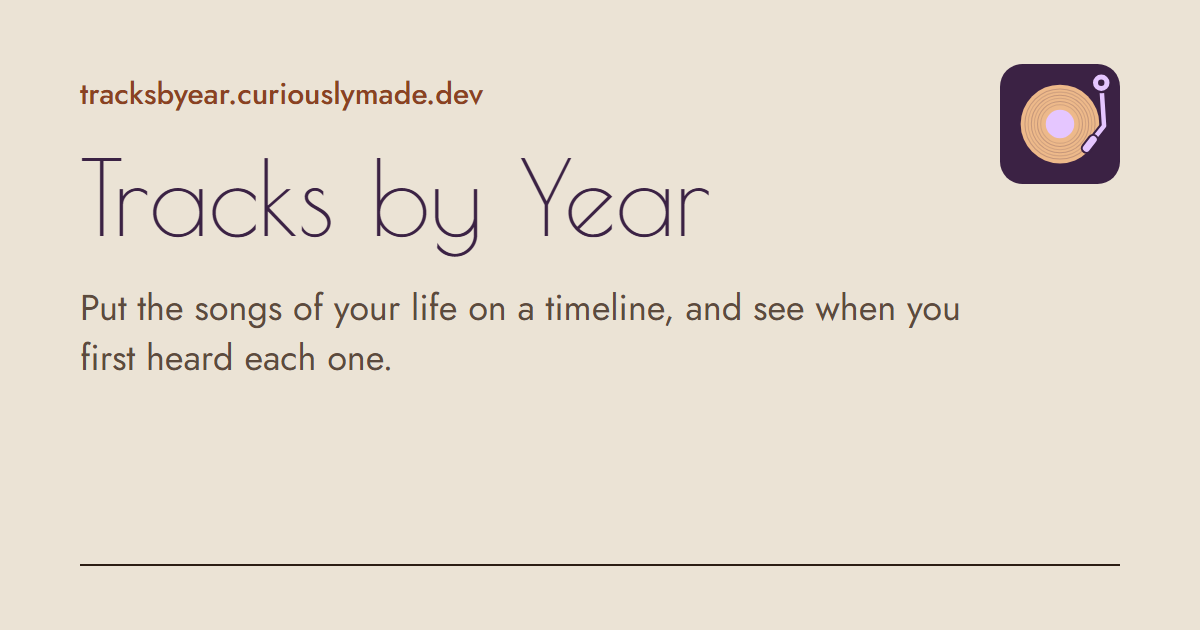
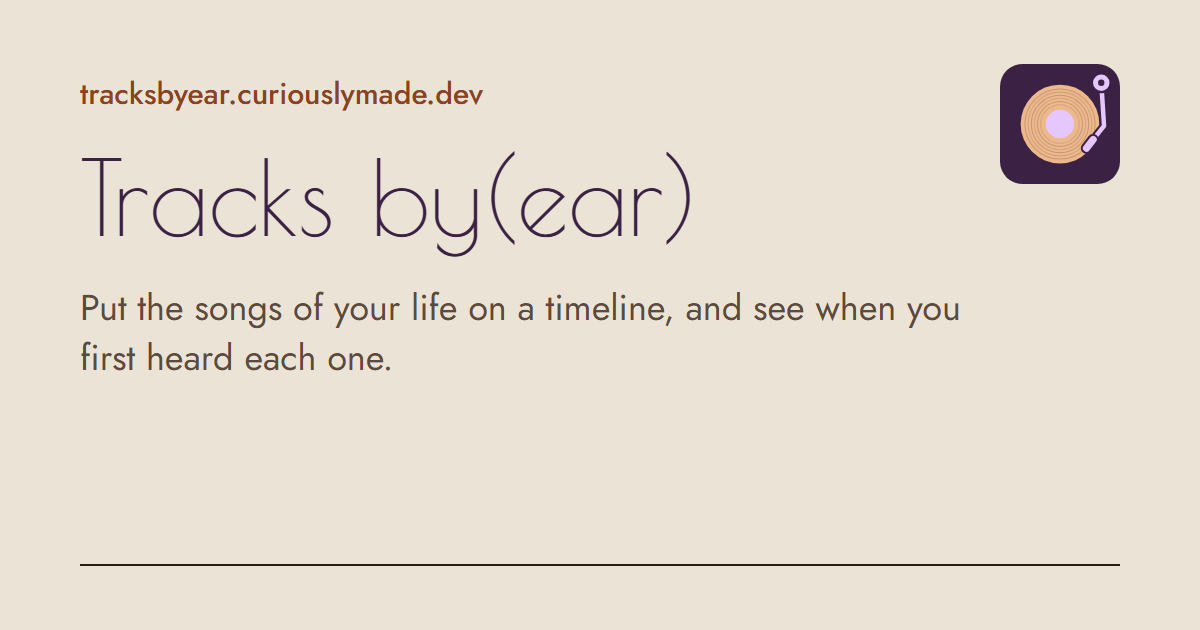
Rename to Tracks by(ear), and size the share image for Stories (#2)
- The app name, the page title and the headline are now "Tracks by(ear)".
  It reads two ways: by year, and by ear. The address stays.
- The share image is now 1080 x 1920 (9:16), the shape of an Instagram
  Story. The title and the address stay clear of the Story buttons, and
  the card shows up to 12 songs.
- New link preview image with the new name.

Changed region(s): [[0.4008, 0.2413, 0.5858, 0.3921]]

diff --git a/src/shareCard.ts b/src/shareCard.ts
@@ -1,17 +1,21 @@
 /**
- * The share image: a 1080 by 1440 card. 3:4 is the tallest shape that an Instagram
- * post shows in full, in the feed and on the profile grid. Drawn on a canvas with the
- * page's own colours and fonts. The footer gives the address, because a picture on
- * Instagram cannot hold a link.
+ * The share image: a 1080 by 1920 card, the 9:16 shape of an Instagram Story.
+ * Instagram puts its own buttons over the top 250 and the bottom 340 pixels of a Story,
+ * so the title and the footer stay inside SAFE_TOP and SAFE_BOTTOM.
+ * Drawn on a canvas with the page's own colours and fonts. The footer gives the address,
+ * because a picture cannot hold a link.
  */
 import type { SongWithEstimate } from './estimate';
 import { genreInfo, NO_GENRE_ACCENT, NO_GENRE_BACKDROP } from './genres';
 import { songGenre } from './road';
 import { genreBreakdown } from './stats';
 
-const CARD_W = 1080;
-export const CARD_H = 1440;
-const MAX_ROWS = 10;
+export const CARD_W = 1080;
+export const CARD_H = 1920;
+/** The parts of a Story that Instagram can cover with its own buttons. */
+export const SAFE_TOP = 250;
+export const SAFE_BOTTOM = 340;
+const MAX_ROWS = 12;
 
 /**
  * Up to `max` songs in timeline order. With more songs, picks them evenly
@@ -89,11 +93,11 @@ export async function drawShareCard(items: SongWithEstimate[], title: string, th
   const width = CARD_W - left * 2;
 
   ctx.fillStyle = heading;
-  ctx.font = '400 80px "Poiret One"';
-  let y = 190;
+  ctx.font = '400 96px "Poiret One"';
+  let y = SAFE_TOP + 110;
   for (const l of wrap(ctx, title, width).slice(0, 2)) {
     ctx.fillText(l, left, y);
-    y += 88;
+    y += 104;
   }
 
   ctx.fillStyle = muted;
@@ -105,7 +109,7 @@ export async function drawShareCard(items: SongWithEstimate[], title: string, th
   const more = items.length - rows.length;
   const first = y + 88;
   // Leave room for the "and N more" line and the footer.
-  const bottom = CARD_H - (more > 0 ? 250 : 190);
+  const bottom = CARD_H - SAFE_BOTTOM - (more > 0 ? 160 : 100);
   const step = Math.min(110, (bottom - first) / Math.max(1, rows.length));
   // Centre a short list between the summary and the footer, so the card has no big gap.
   const used = step * rows.length;
@@ -152,7 +156,7 @@ export async function drawShareCard(items: SongWithEstimate[], title: string, th
   }
 
   // Footer: the Two Moons mark and the name of the app.
-  const fy = CARD_H - 96;
+  const fy = CARD_H - SAFE_BOTTOM - 20;
   ctx.fillStyle = token('--sand');
   ctx.beginPath();
   ctx.arc(left + 10, fy - 9, 10, 0, Math.PI * 2);

diff --git a/src/components/SharePanel.tsx b/src/components/SharePanel.tsx
@@ -58,7 +58,7 @@ function ShareImage({ items, title, theme }: { items: SongWithEstimate[]; title:
   const share = async () => {
     if (!file) return;
     try {
-      await navigator.share({ files: [file], title: 'My tracks by year', text: `Make your own at ${location.origin}/` });
+      await navigator.share({ files: [file], title: 'Tracks by(ear)', text: `Make your own at ${location.origin}/` });
     } catch {
       /* The user closed the share sheet. */
     }
@@ -75,7 +75,7 @@ function ShareImage({ items, title, theme }: { items: SongWithEstimate[]; title:
         <div className="share-image">
           {url ? <img src={url} alt="A picture of your timeline, ready to share" className="share-image__preview" /> : <div className="share-image__preview" />}
           <div className="stack-4">
-            <p className="modal__fine">Sized for Instagram posts (3:4), and it fits WhatsApp and most apps. The address is on the image, so people can find the app.</p>
+            <p className="modal__fine">Sized for Instagram Stories (9:16). The title and the address stay clear of the Story buttons, so people can find the app.</p>
             <div className="row row--center">
               {file && canShareFiles(file) && (
                 <button className="tm-btn tm-btn--primary" onClick={() => void share()}>
@@ -144,7 +144,7 @@ function ShareLink({ items, periods }: { items: SongWithEstimate[]; periods: Lif
           {copied ? 'Link copied' : 'Copy link'}
         </button>
         {link && typeof navigator.share === 'function' && (
-          <button className="tm-btn" onClick={() => void navigator.share({ url: link, title: 'My tracks by year', text: 'Here are the songs of my life, by year.' }).catch(() => undefined)}>
+          <button className="tm-btn" onClick={() => void navigator.share({ url: link, title: 'Tracks by(ear)', text: 'Here are the songs of my life, by year.' }).catch(() => undefined)}>
             Share link
           </button>
         )}

diff --git a/src/exportFile.test.ts b/src/exportFile.test.ts
@@ -23,8 +23,8 @@ describe('csvCell', () => {
 
 describe('filePlaylists', () => {
   it('makes one playlist for each life period, or one for the whole timeline', () => {
-    expect(filePlaylists(groups, 'perPeriod', true).map((p) => p.name)).toEqual(['Tracks by Year: School', 'Tracks by Year: Other']);
-    expect(filePlaylists(groups, 'perPeriod', false).map((p) => p.name)).toEqual(['Tracks by Year: School']);
+    expect(filePlaylists(groups, 'perPeriod', true).map((p) => p.name)).toEqual(['Tracks by(ear): School', 'Tracks by(ear): Other']);
+    expect(filePlaylists(groups, 'perPeriod', false).map((p) => p.name)).toEqual(['Tracks by(ear): School']);
     expect(filePlaylists(groups, 'whole', true)[0].items).toHaveLength(2);
   });
 });
@@ -34,13 +34,13 @@ describe('toCsv and toText', () => {
     const csv = toCsv(filePlaylists(groups, 'perPeriod', true));
     const lines = csv.replace('', '').trim().split('\r\n');
     expect(lines[0]).toBe('Playlist,Position,Title,Artist,Album,Release date,First heard,Spotify');
-    expect(lines[1]).toBe('Tracks by Year: School,1,Wonderwall,Oasis,,02/10/1995,Jan 1996,https://open.spotify.com/track/abc123');
+    expect(lines[1]).toBe('Tracks by(ear): School,1,Wonderwall,Oasis,,02/10/1995,Jan 1996,https://open.spotify.com/track/abc123');
     expect(lines[2]).toContain('"Beyoncé, Jay-Z"');
     expect(lines[2]).toContain('https://open.spotify.com/search/Crazy%20in%20Love%20Beyonc%C3%A9%2C%20Jay-Z');
   });
   it('writes "Artist - Title" lines under each playlist name', () => {
     expect(toText(filePlaylists(groups, 'perPeriod', true))).toBe(
-      'Tracks by Year: School\nOasis - Wonderwall\n\nTracks by Year: Other\nBeyoncé, Jay-Z - Crazy in Love\n',
+      'Tracks by(ear): School\nOasis - Wonderwall\n\nTracks by(ear): Other\nBeyoncé, Jay-Z - Crazy in Love\n',
     );
   });
 });

diff --git a/src/shareCard.test.ts b/src/shareCard.test.ts
@@ -1,6 +1,6 @@
 import { describe, expect, it } from 'vitest';
 import type { SongWithEstimate } from './estimate';
-import { CARD_H, cardFooter, cardSummary, pickRows } from './shareCard';
+import { CARD_H, CARD_W, cardFooter, cardSummary, pickRows, SAFE_BOTTOM, SAFE_TOP } from './shareCard';
 
 const item = (n: number, year: number, genre?: 'indie' | 'pop') => {
   const d = new Date(Date.UTC(year, 5, 1));
@@ -32,8 +32,12 @@ describe('cardSummary', () => {
 });
 
 describe('the card', () => {
-  it('is 1080 by 1440, the 3:4 shape of an Instagram post', () => {
-    expect(1080 / CARD_H).toBe(3 / 4);
+  it('is 1080 by 1920, the 9:16 shape of an Instagram Story', () => {
+    expect([CARD_W, CARD_H]).toEqual([1080, 1920]);
+  });
+  it('keeps clear of the Story buttons at the top and the bottom', () => {
+    expect(SAFE_TOP).toBeGreaterThanOrEqual(250);
+    expect(SAFE_BOTTOM).toBeGreaterThanOrEqual(340);
   });
   it('gives the address in the footer', () => {
     expect(cardFooter('tracksbyear.curiouslymade.dev').join('')).toBe('Make your own at tracksbyear.curiouslymade.dev');

diff --git a/src/app.css b/src/app.css
@@ -1,4 +1,4 @@
-/* Tracks by Year layout. Colours, type and spacing come from the Two Moons tokens. */
+/* Tracks by(ear) layout. Colours, type and spacing come from the Two Moons tokens. */
 
 .page { min-height: 100vh; }
 
@@ -312,7 +312,7 @@ select.hint-picker__more[aria-label="Year"] { width: 140px; }
 
 /* Share modal */
 .share-image { display: grid; grid-template-columns: 160px 1fr; gap: var(--space-5); align-items: start; }
-.share-image__preview { width: 160px; aspect-ratio: 3 / 4; border: 1px solid var(--line); border-radius: 10px; background: var(--surface-sunken); object-fit: cover; }
+.share-image__preview { width: 135px; aspect-ratio: 9 / 16; border: 1px solid var(--line); border-radius: 10px; background: var(--surface-sunken); object-fit: cover; }
 @media (max-width: 480px) { .share-image { grid-template-columns: 1fr; } }
 @media (max-width: 640px) { .facts { grid-template-columns: 1fr; } }
 

diff --git a/src/exportFile.ts b/src/exportFile.ts
@@ -16,8 +16,8 @@ interface FilePlaylist {
 /** The playlists to write: one for each life period, or one for the whole timeline. */
 export function filePlaylists(groups: TimelineGroup[], mode: 'perPeriod' | 'whole', includeOther: boolean): FilePlaylist[] {
   const chosen = groups.filter((g) => g.items.length > 0 && (includeOther || g.period));
-  if (mode === 'whole') return [{ name: 'Tracks by Year', items: chosen.flatMap((g) => g.items) }];
-  return chosen.map((g) => ({ name: `Tracks by Year: ${g.period ? g.period.name : 'Other'}`, items: g.items }));
+  if (mode === 'whole') return [{ name: 'Tracks by(ear)', items: chosen.flatMap((g) => g.items) }];
+  return chosen.map((g) => ({ name: `Tracks by(ear): ${g.period ? g.period.name : 'Other'}`, items: g.items }));
 }
 
 /**

diff --git a/src/App.tsx b/src/App.tsx
@@ -37,7 +37,7 @@ function saveSetting(key: string, value: string) {
   }
 }
 
-const HEADLINE = 'My tracks by year';
+const HEADLINE = 'Tracks by(ear)';
 
 /** The saved zoom step, or the normal step. */
 function readZoom(): number {
@@ -140,7 +140,7 @@ export function App() {
     <div className="page">
       <header className="top" ref={header}>
         {viewing && <p className="top__kicker">A shared timeline</p>}
-        <h1 className="top__title">{viewing ? 'Their tracks by year' : HEADLINE}</h1>
+        <h1 className="top__title">{HEADLINE}</h1>
         {shared && (
           <p className="top__shared">
             {shared === 'broken' ? 'This share link does not work. It may be cut short. ' : 'You are looking at someone else’s timeline. '}

diff --git a/README.md b/README.md
@@ -1,6 +1,8 @@
-# Tracks by Year
+# Tracks by(ear)
 
 Put the songs of your life on a timeline, and see when you first heard each one.
+
+The name reads two ways: tracks by year, and tracks you know by ear.
 
 **Open it:** [tracksbyear.curiouslymade.dev](https://tracksbyear.curiouslymade.dev/)
 
@@ -12,7 +14,7 @@ Add the times of your life, such as school or a first job, then the songs you re
 - **Move songs.** Drag a song along the timeline to change the year.
 - **Breakdown.** See your genres, the decades your songs come from, the songs in each life period, and some highlights.
 - **Search.** Find a song, an artist, a genre or a life period on the timeline.
-- **Share.** Share the timeline as an image or a link, or download it as playlist files (CSV or text). You can upload the playlist files to TuneMyMusic or Soundiiz. The image is 1080 by 1440 pixels, the 3:4 shape of an Instagram post, and it shows the address of the app.
+- **Share.** Share the timeline as an image or a link, or download it as playlist files (CSV or text). You can upload the playlist files to TuneMyMusic or Soundiiz. The image is 1080 by 1920 pixels, the 9:16 shape of an Instagram Story, and it shows the address of the app.
 - **Play.** Each song opens in Spotify or Apple Music. Choose the service in Settings.
 - **Start again.** Settings can clear every song and life period, so you start with a blank timeline.
 
